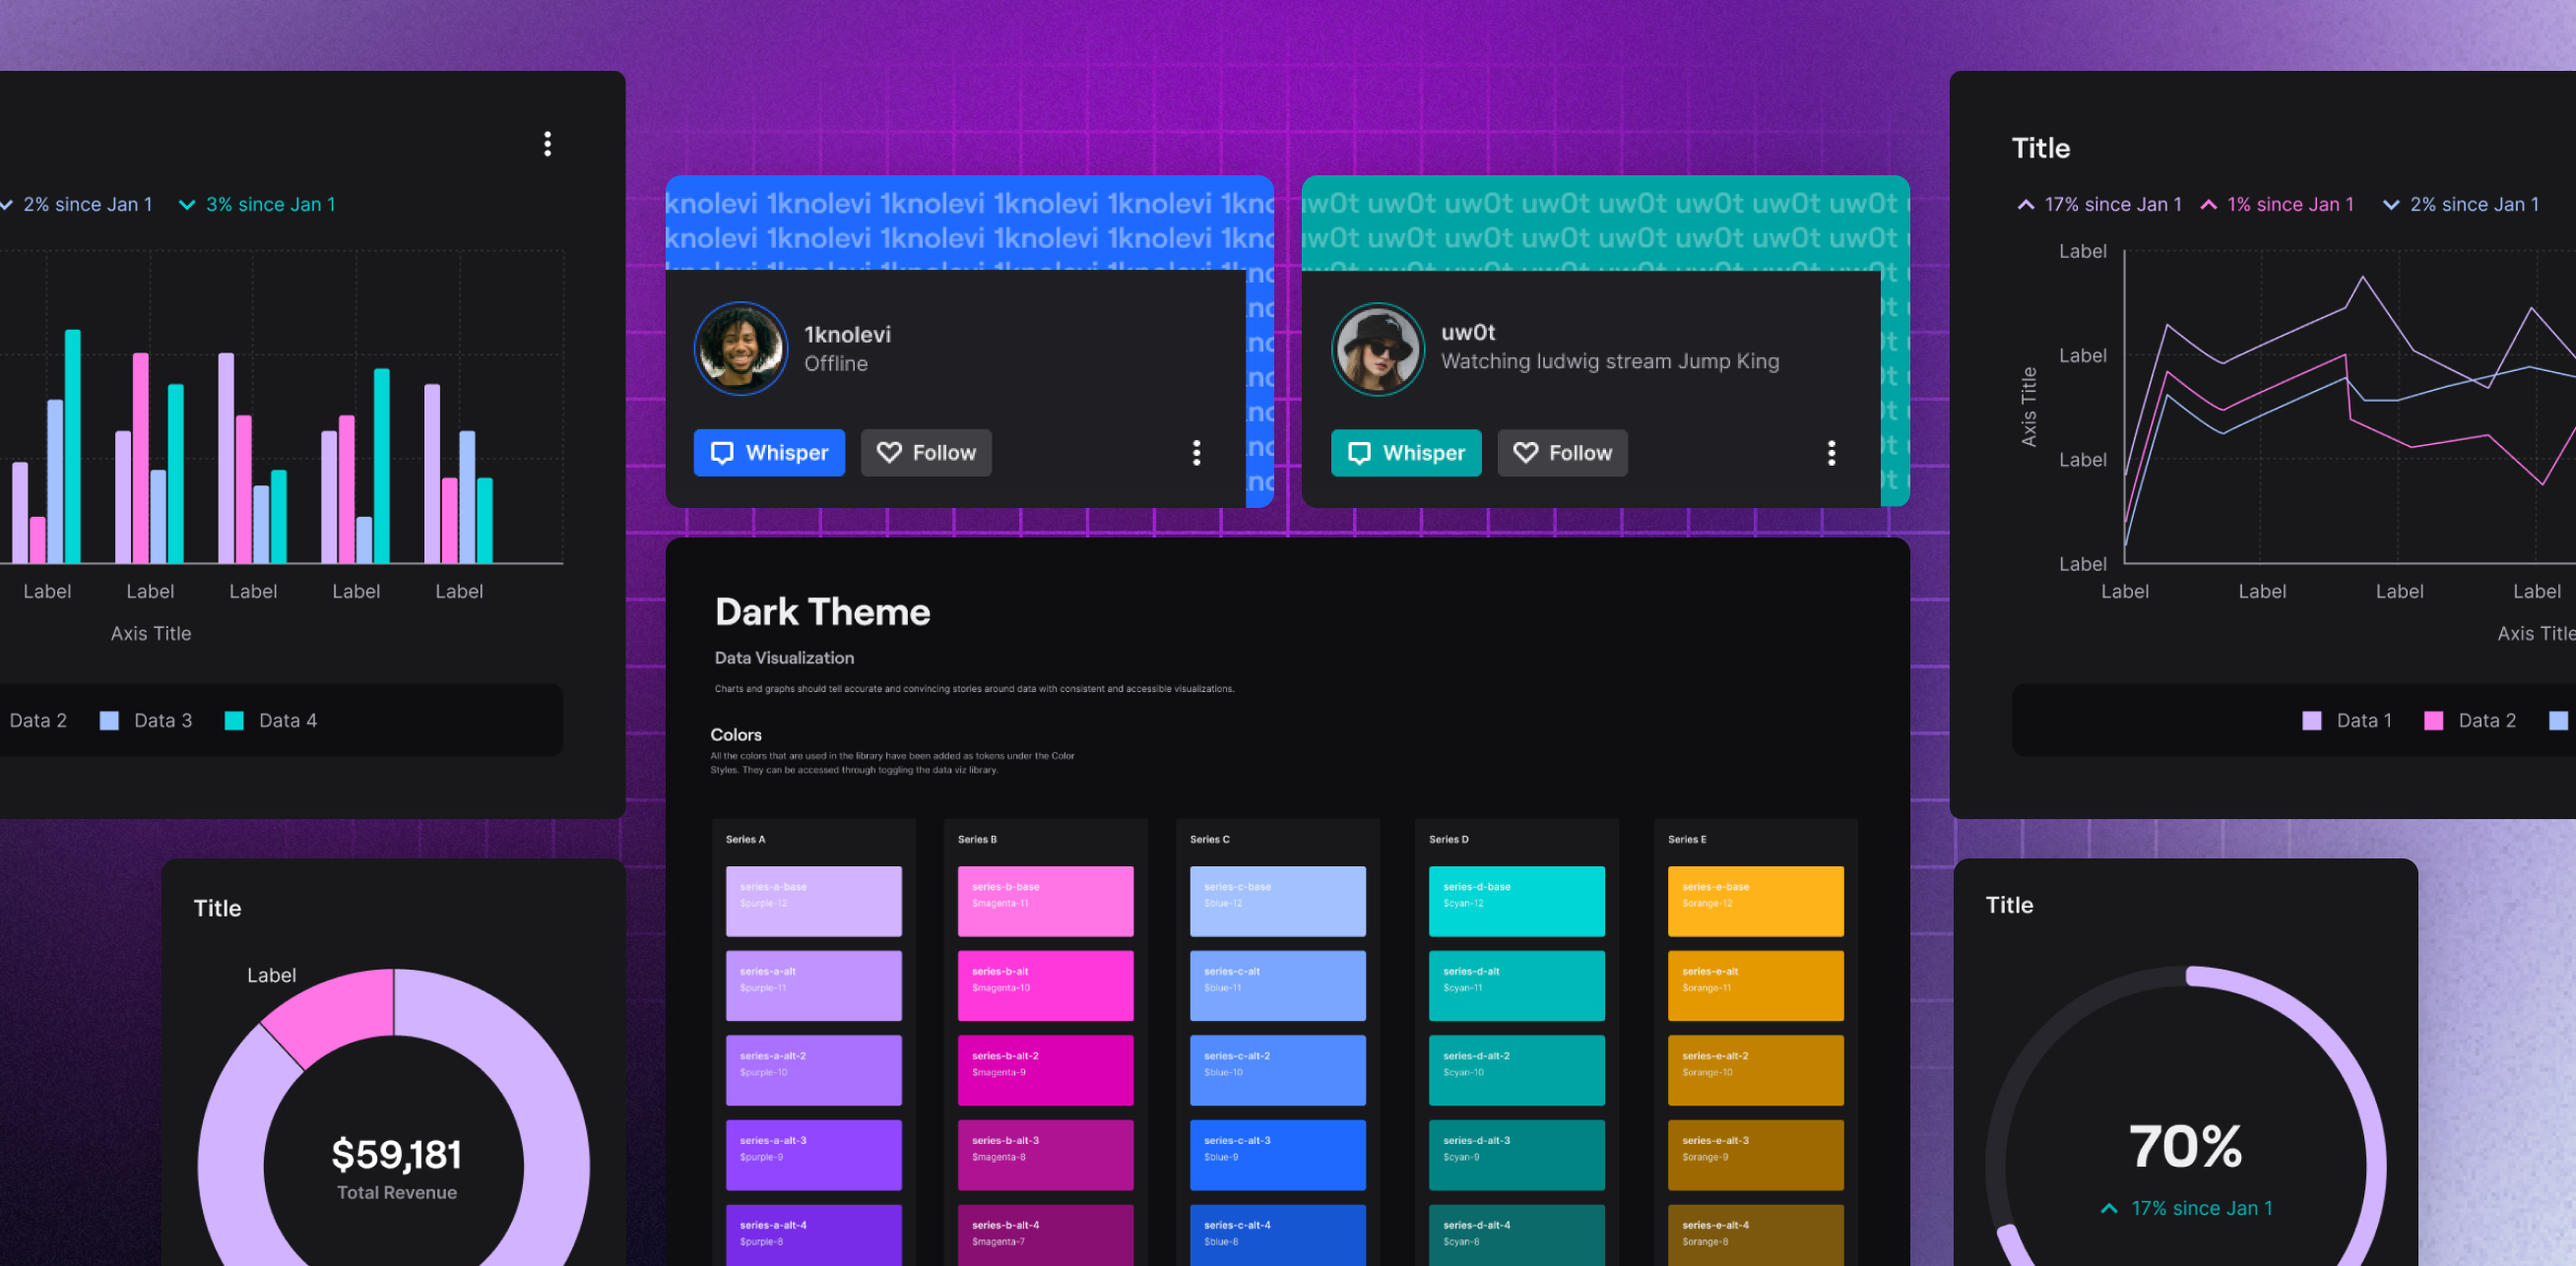
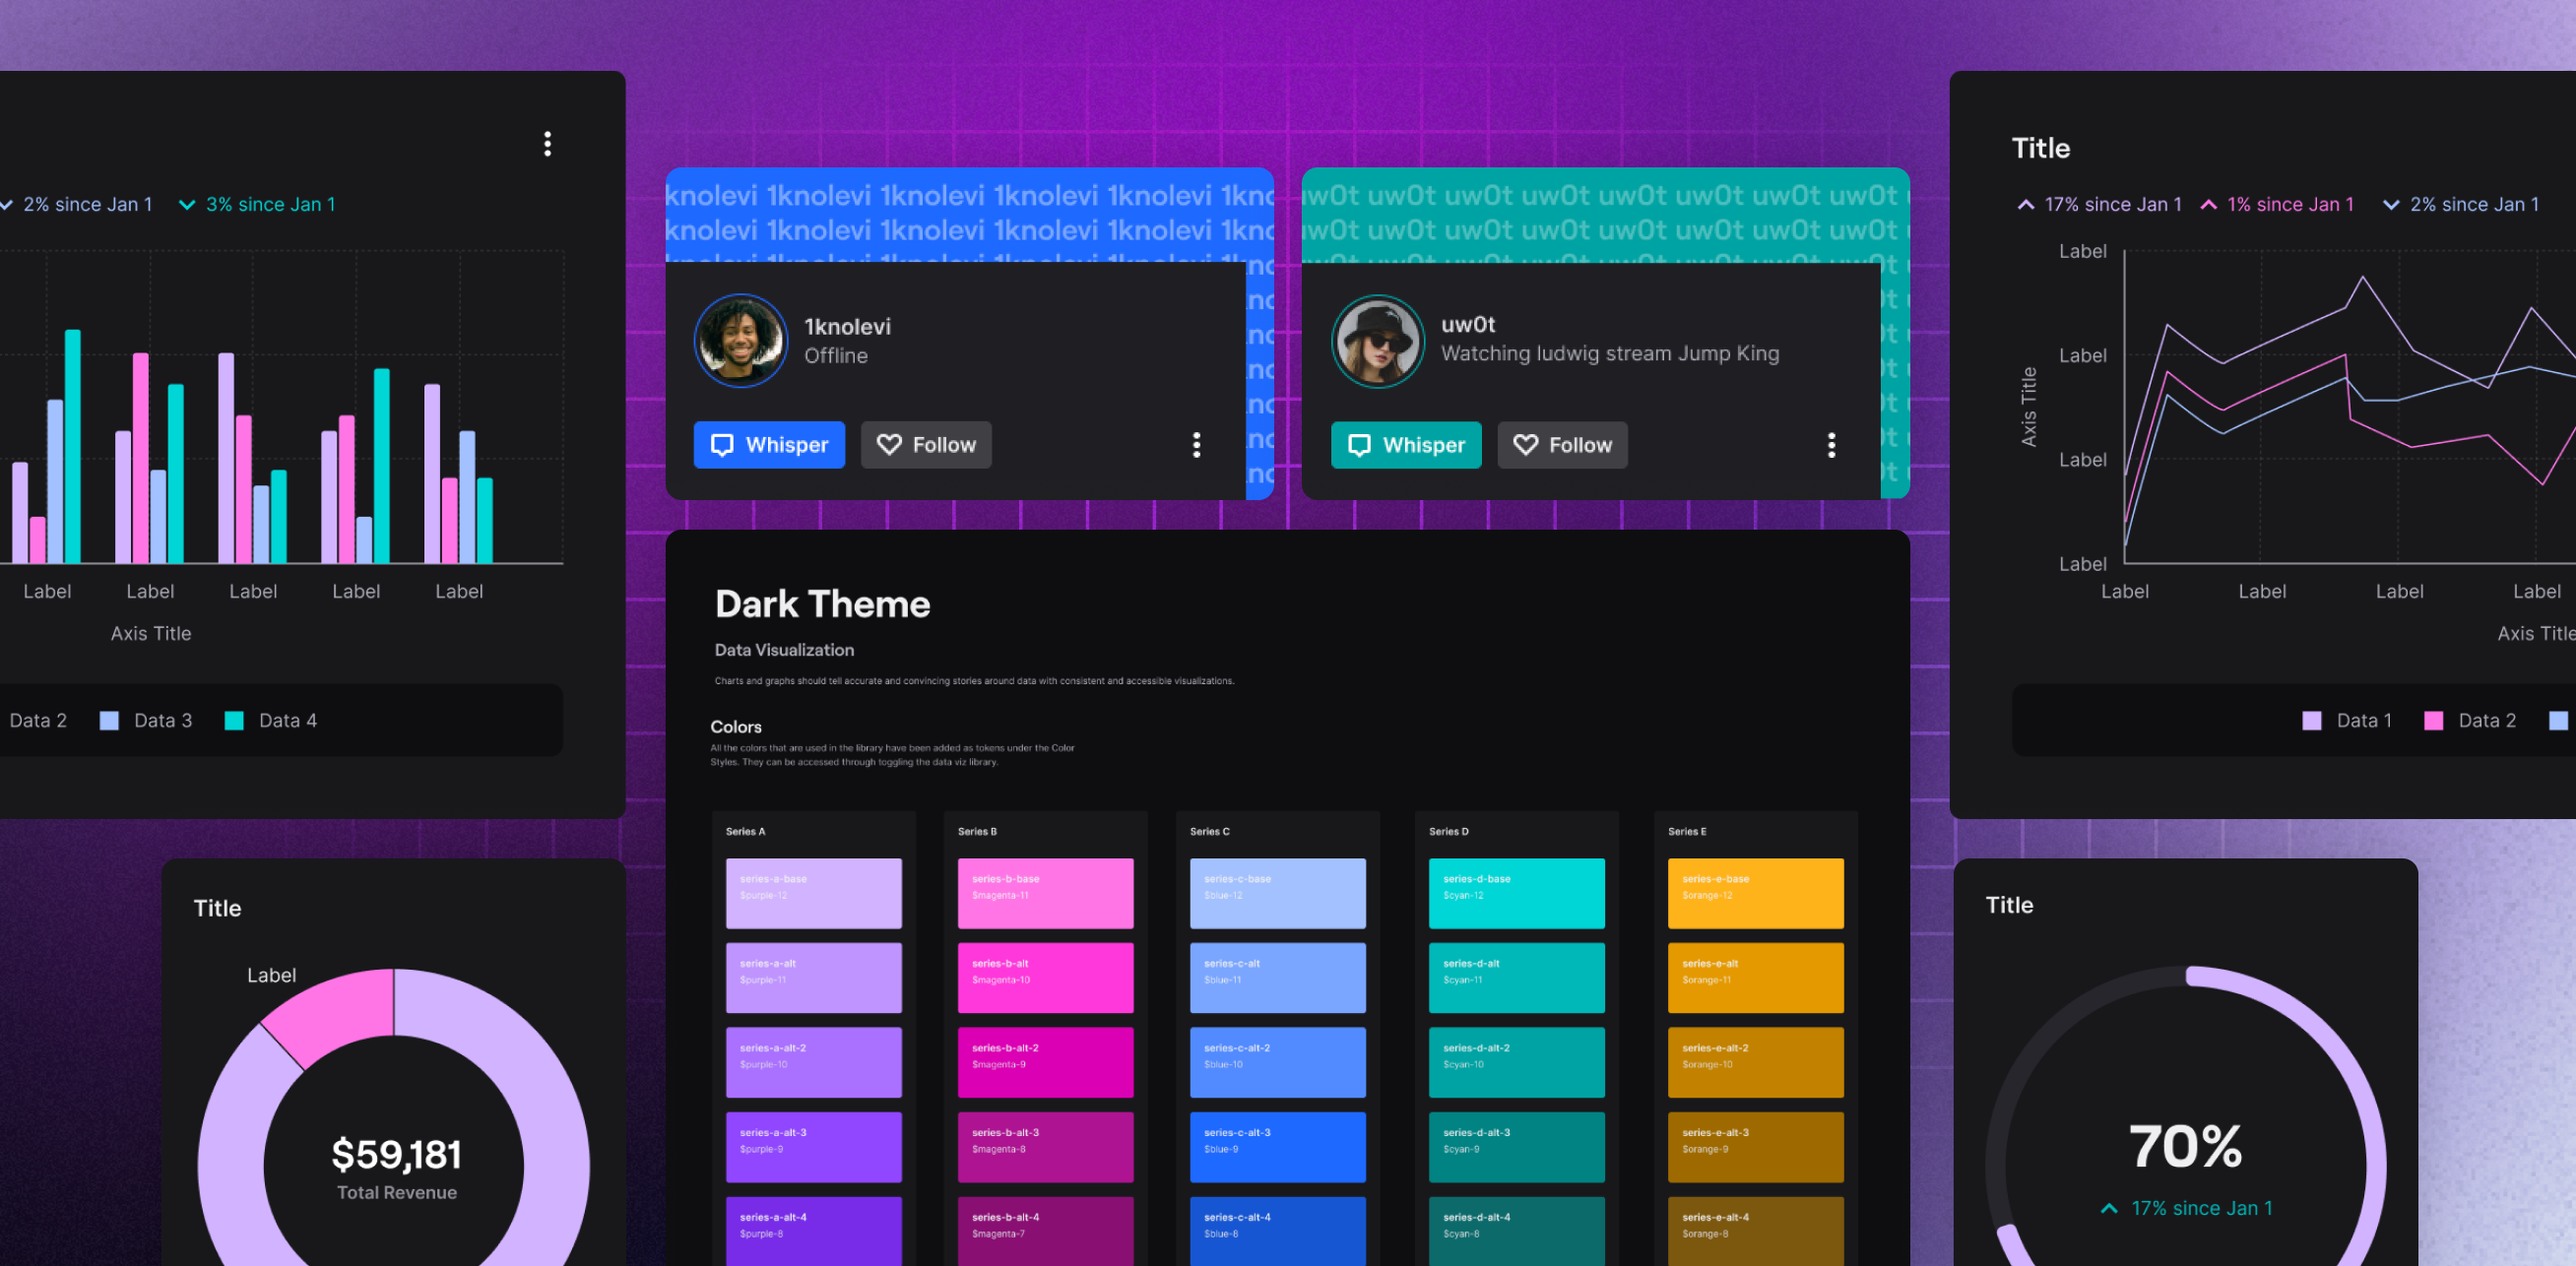
added stealth

diff --git a/Experience/stealth/home.html b/Experience/stealth/home.html
@@ -1,0 +1,100 @@
+<!doctype html>
+<html>
+  <head>
+    <meta charset="utf-8" />
+    <title>Stealth</title>
+    <meta
+      name="viewport"
+      content="width=device-width, initial-scale=1, maximum-scale=1"
+    />
+    <meta
+      name="viewport"
+      content="user-scalable=no, width=device-width, initial-scale=1.0"
+    />
+    <meta name="apple-mobile-web-app-capable" content="yes" />
+
+    <link
+      rel="icon"
+      href="Images/R%20black.png"
+      sizes="16x16"
+      type="image/png"
+    />
+
+    <script
+      src="https://cdnjs.cloudflare.com/ajax/libs/jquery/3.5.1/jquery.min.js"
+      integrity="sha512-bLT0Qm9VnAYZDflyKcBaQ2gg0hSYNQrJ8RilYldYQ1FxQYoCLtUjuuRuZo+fjqhx/qtq/1itJ0C2ejDxltZVFg=="
+      crossorigin="anonymous"
+    ></script>
+
+    <link
+      rel="stylesheet"
+      href="https://maxcdn.bootstrapcdn.com/bootstrap/4.0.0/css/bootstrap.min.css"
+      integrity="sha384-Gn5384xqQ1aoWXA+058RXPxPg6fy4IWvTNh0E263XmFcJlSAwiGgFAW/dAiS6JXm"
+      crossorigin="anonymous"
+    />
+
+    <script
+      src="https://maxcdn.bootstrapcdn.com/bootstrap/4.0.0/js/bootstrap.min.js"
+      integrity="sha384-JZR6Spejh4U02d8jOt6vLEHfe/JQGiRRSQQxSfFWpi1MquVdAyjUar5+76PVCmYl"
+      crossorigin="anonymous"
+    ></script>
+
+    <link
+      rel="stylesheet"
+      href="https://cdnjs.cloudflare.com/ajax/libs/font-awesome/5.14.0/css/all.min.css"
+      integrity="sha512-1PKOgIY59xJ8Co8+NE6FZ+LOAZKjy+KY8iq0G4B3CyeY6wYHN3yt9PW0XpSriVlkMXe40PTKnXrLnZ9+fkDaog=="
+      crossorigin="anonymous"
+    />
+
+    <link rel="stylesheet" type="text/css" href="../../global.css" />
+    <link rel="stylesheet" type="text/css" href="stealth.css" />
+  </head>
+
+  <body>
+    <article>
+      <article>
+        <div class="row">
+          <div class="col-12">
+            <img class="headimg" src="Images/Stealth Header.png" />
+          </div>
+        </div>
+
+        <div class="landing">
+          <div class="row section-header">
+            <div class="col-sm-12 section-header-title-col">
+              <h5 class="section-eyebrow">2025 - Present</h5>
+              <h2 class="section-title color">Stealth AI Startup</h2>
+            </div>
+            <div class="section-header-meta-group">
+              <div class="col-sm-4 section-header-meta-col">
+                <h5 class="">Role</h5>
+                <h3 class="">Founding Designer</h3>
+              </div>
+        
+              <div class="col-sm-4 section-header-meta-col">
+                <h5 class="">Team</h5>
+                <h3 class="">Small but Mighty</h3>
+              </div>
+            </div>
+          </div>
+
+          <div class="intro-card">
+            <h5 class="gray">Overview</h5>
+            <h3 class="mt-3 lightgray">
+              We’re reimagining the modern music studio. One that lives online, powered by AI Agents, where anyone can go from a spark of an idea to a fully realized track, and so much more. The goal isn’t just to make music easier to produce, but to unlock entirely new ways for people to express themselves through sound.
+            </h3>
+          </div>
+          <div class="row mt-4">
+            <div class="col-12">
+              <img class="asset special" src="Images/Stealth.png" />
+            </div>
+          </div>
+          
+        </div>
+      </article>
+
+      
+
+      
+  </body>
+</html>

diff --git a/style.css b/style.css
@@ -176,22 +176,22 @@ a:hover {
     background-position: 41% 71%;
   }
   29% {
-    background-position: 12% 52%;
+    background-position: 62% 12%;
   }
   37% {
     background-position: 95% 88%;
   }
   44% {
-    background-position: 53% 28%;
+    background-position: 73% 58%;
   }
   52% {
-    background-position: 7% 91%;
+    background-position: 57% 91%;
   }
   61% {
     background-position: 78% 46%;
   }
   68% {
-    background-position: 34% 12%;
+    background-position: 34% 72%;
   }
   76% {
     background-position: 100% 62%;
@@ -234,7 +234,7 @@ a:hover {
   cursor: pointer;
   text-decoration: none;
   background: var(--mesh-gradient-btn);
-  background-size: 380% 360%;
+  background-size: 500% 500%;
   background-position: 0% 0%;
   animation: meshDrift 20s cubic-bezier(0.45, 0.05, 0.55, 0.95) infinite;
   transition: transform 0.2s;
@@ -524,19 +524,6 @@ a:hover {
     border-bottom: 0 !important;
     transition: 0.25s ease;
   }
-
-  .experience > .experience-row:first-child:hover {
-    background-color: transparent;
-    border-bottom: 1px solid rgba(0, 0, 0, 0.1) !important;
-    padding-left: 0;
-    padding-right: 0;
-    border-radius: 0;
-  }
-}
-
-/* First experience-row (Stealth) is not clickable, so use default cursor and no hover background */
-.experience > .experience-row:first-child {
-  cursor: default;
 }
 
 .experience > .role-link:last-child .experience-row,
@@ -668,10 +655,6 @@ a:hover {
 @media (hover: hover) and (pointer: fine) {
   .experience-row:hover .pill {
     transform: translateX(-24px);
-  }
-
-  .experience > .experience-row:first-child:hover .pill {
-    transform: none;
   }
 }
 

diff --git a/index.html b/index.html
@@ -172,9 +172,10 @@
       <div class="col-12">
         <section class="experience-grid">
           <div class="experience">
+            <a href="#" class="role-link work-modal-trigger" data-work-modal="experience-stealth" data-work-modal-src="Experience/stealth/home.html">
           <div class="experience-row">
             <div class="experience-row-left">
-              <span class="year">Current</span>
+              <span class="year">2025 - Present</span>
               <span class="role-name">Founding Designer</span>
             </div>
             <div class="experience-row-right">
@@ -184,6 +185,7 @@
               </span>
             </div>
           </div>
+        </a>
 
           <a href="https://beavrdesign.com" target="_blank" rel="noopener" class="role-link">
           <div class="experience-row">

diff --git a/Experience/stealth/stealth.css b/Experience/stealth/stealth.css
@@ -1,0 +1,22 @@
+/* DeltaHacks project – base styles in global.css */
+.color {
+  color: black;
+}
+
+.asset {
+  border-radius: 24px;
+}
+
+.special {
+  border: 0.5px solid #dedede;
+}
+
+@media (max-width: 920px) {
+  .asset {
+    border-radius: 16px;
+  }
+
+  .intro-card {
+    border-radius: 16px;
+  }
+}
